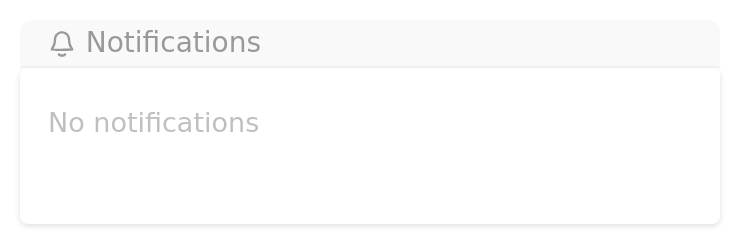
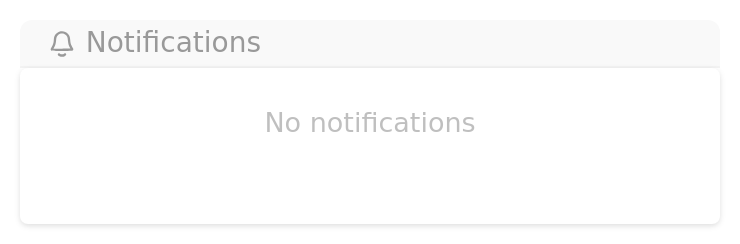
Center the empty message in the notifications popup

Changed region(s): [[0.0622, 0.459, 0.6527, 0.5451]]

diff --git a/components/src/display/Options.ts b/components/src/display/Options.ts
@@ -240,8 +240,11 @@ export class Options extends RapidElement {
         --icon-color: var(--accent-700);
       }
 
+      /* options are flex rows, so the empty message aligns via
+         justify-content rather than text-align */
       .option.no-options {
         pointer-events: none;
+        justify-content: var(--options-empty-message-align, flex-start);
       }
 
       .option.no-options:hover {

diff --git a/components/src/list/NotificationList.ts b/components/src/list/NotificationList.ts
@@ -26,6 +26,7 @@ export class NotificationList extends TembaList {
     return css`
       :host {
         --option-hover-bg: #f9f9f9;
+        --options-empty-message-align: center;
       }
 
       .header {
